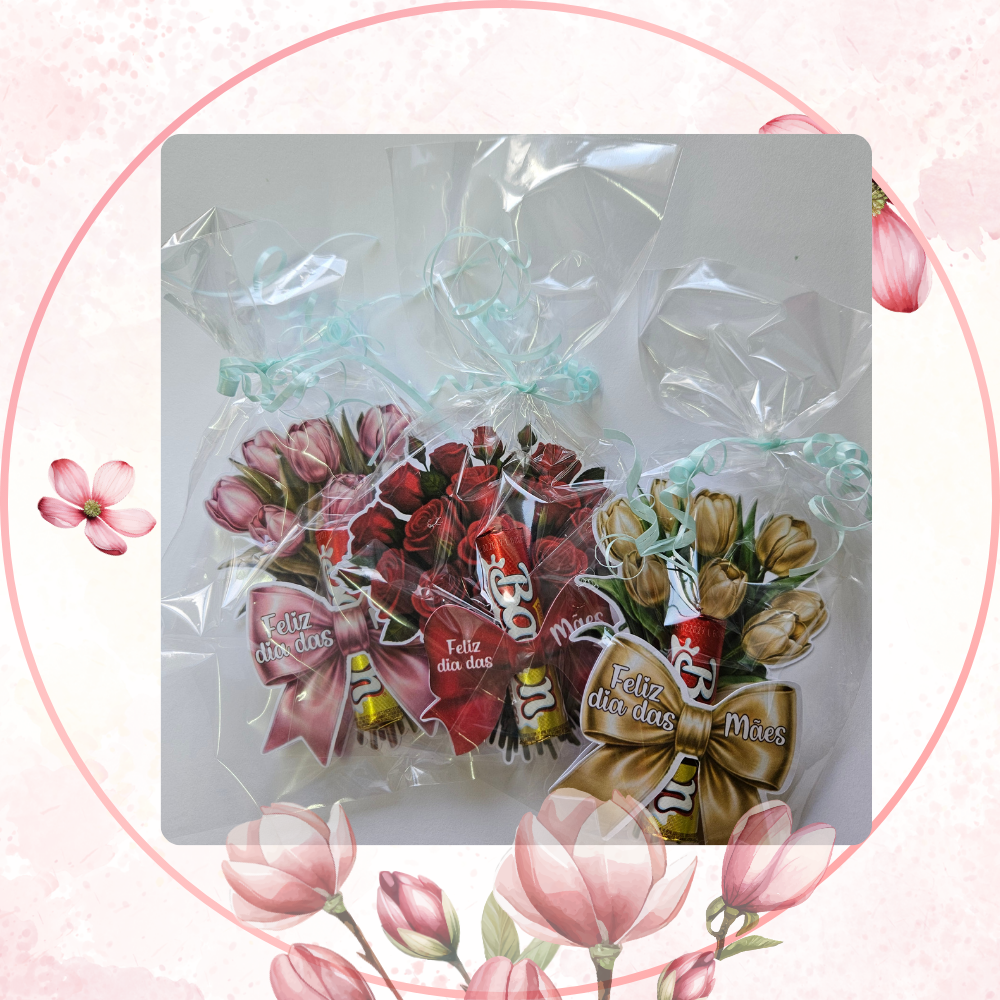
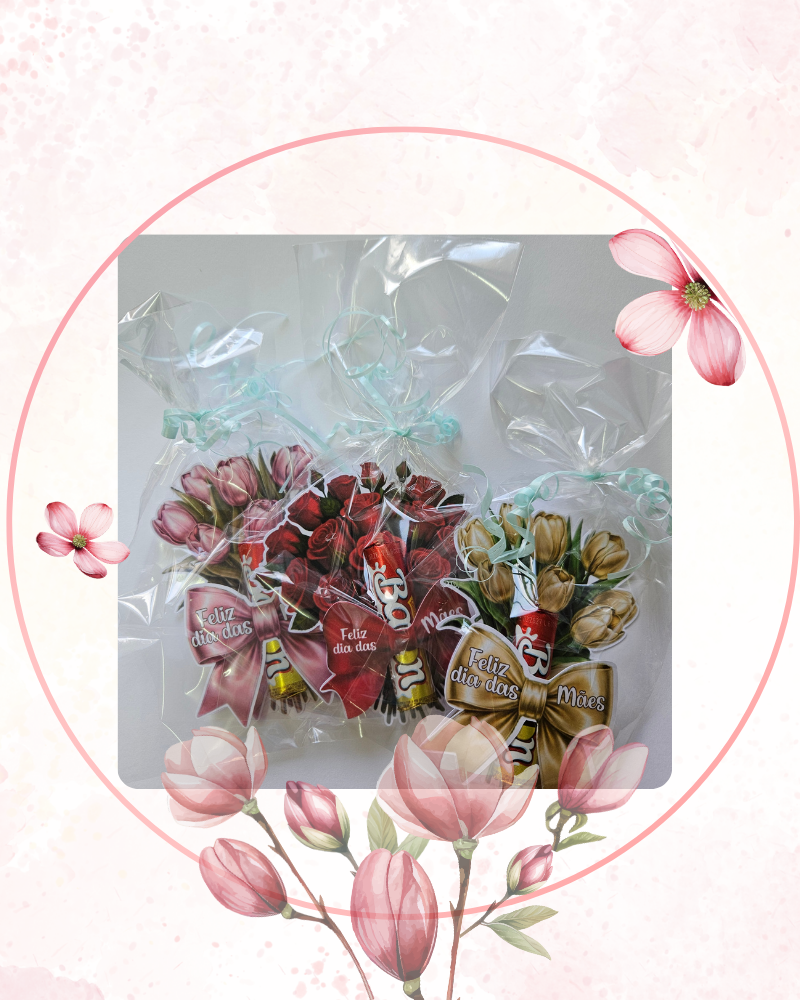
mae

diff --git a/src/components/SubcategoriaProductsPanel.jsx b/src/components/SubcategoriaProductsPanel.jsx
@@ -43,18 +43,20 @@ export function SubcategoriaProductsPanel({
         ✨ Produtos personalizados feitos artesanalmente com carinho
       </p>
 
-      {subcategoriaSelecionada.titulo === "Páscoa" ? (
+      {(subcategoriaSelecionada.titulo === "Páscoa" || subcategoriaSelecionada.titulo === "Dia das Mães") ? (
         <>
-          <h2
-            style={{
-              marginBottom: "20px",
-              color: "#5a3e36",
-              fontSize: "24px",
-              textAlign: "center"
-            }}
-          >
-            🍫 Doces e Lembrancinhas
-          </h2>
+          {subcategoriaSelecionada.titulo === "Páscoa" && (
+            <>
+              <h2
+                style={{
+                  marginBottom: "20px",
+                  color: "#5a3e36",
+                  fontSize: "24px",
+                  textAlign: "center"
+                }}
+              >
+                🍫 Doces e Lembrancinhas
+              </h2>
 
           <div style={estilos.grid}>
             {subcategoriaSelecionada.produtos
@@ -266,6 +268,166 @@ export function SubcategoriaProductsPanel({
                 </div>
               ))}
           </div>
+            </>
+          )}
+
+          {subcategoriaSelecionada.titulo === "Dia das Mães" && (
+            <>
+              <h2
+                style={{
+                  marginBottom: "20px",
+                  color: "#5a3e36",
+                  fontSize: "24px",
+                  textAlign: "center"
+                }}
+              >
+                🎁 Presentes Especiais
+              </h2>
+
+              <div style={estilos.grid}>
+                {subcategoriaSelecionada.produtos
+                  .filter((prod) => prod.tipo === "Presentes")
+                  .map((prod, i) => (
+                    <div
+                      key={i}
+                      style={estilos.card}
+                      onMouseEnter={(e) => {
+                        e.currentTarget.style.transform = "translateY(-8px)";
+                        e.currentTarget.style.boxShadow =
+                          "0 20px 40px rgba(0,0,0,0.1)";
+                      }}
+                      onMouseLeave={(e) => {
+                        e.currentTarget.style.transform = "translateY(0)";
+                        e.currentTarget.style.boxShadow =
+                          "0 10px 30px rgba(0,0,0,0.06)";
+                      }}
+                    >
+                      <div style={{ overflow: "hidden", borderRadius: "14px" }}>
+                        <img
+                          src={prod.imagem}
+                          alt={prod.nome}
+                          style={estilos.imagem}
+                          onMouseEnter={(e) => {
+                            e.currentTarget.style.transform = "scale(1.08)";
+                          }}
+                          onMouseLeave={(e) => {
+                            e.currentTarget.style.transform = "scale(1)";
+                          }}
+                        />
+                      </div>
+
+                      <p
+                        style={{
+                          fontWeight: "600",
+                          marginTop: "10px"
+                        }}
+                      >
+                        {prod.nome}
+                      </p>
+
+                      {prod.preco && (
+                        <p
+                          style={{
+                            fontWeight: "bold",
+                            color: "#c8a96a",
+                            fontSize: "16px",
+                            marginTop: "5px"
+                          }}
+                        >
+                          💰 {prod.preco}
+                        </p>
+                      )}
+
+                      <p
+                        style={{
+                          fontSize: "13px",
+                          color: "#999",
+                          marginTop: "4px"
+                        }}
+                      >
+                        Feito sob medida para você 💛
+                      </p>
+
+                      <a
+                        href={gerarLinkWhatsApp(prod.nome)}
+                        target="_blank"
+                        rel="noopener noreferrer"
+                      >
+                        <button style={estilos.botao}>Solicitar orçamento</button>
+                      </a>
+                    </div>
+                  ))}
+              </div>
+
+              <h2
+                style={{
+                  marginTop: "50px",
+                  marginBottom: "20px",
+                  color: "#5a3e36",
+                  fontSize: "24px",
+                  textAlign: "center"
+                }}
+              >
+                🎂 Topos de Bolo
+              </h2>
+
+              <div style={estilos.grid}>
+                {subcategoriaSelecionada.produtos
+                  .filter((prod) => prod.tipo === "topo")
+                  .map((prod, i) => (
+                    <div key={i} style={estilos.card}>
+                      <div style={{ overflow: "hidden", borderRadius: "14px" }}>
+                        <img
+                          src={prod.imagem}
+                          alt={prod.nome}
+                          style={estilos.imagem}
+                        />
+                      </div>
+
+                      <p
+                        style={{
+                          fontWeight: "600",
+                          marginTop: "10px"
+                        }}
+                      >
+                        {prod.nome}
+                      </p>
+
+                      {prod.preco && (
+                        <p
+                          style={{
+                            fontWeight: "bold",
+                            color: "#c8a96a",
+                            fontSize: "16px",
+                            marginTop: "5px"
+                          }}
+                        >
+                          💰 {prod.preco}
+                        </p>
+                      )}
+
+                      <p
+                        style={{
+                          fontSize: "13px",
+                          color: "#999",
+                          marginTop: "4px"
+                        }}
+                      >
+                        Feito sob medida para você 💛
+                      </p>
+
+                      <a
+                        href={gerarLinkWhatsApp(prod.nome)}
+                        target="_blank"
+                        rel="noopener noreferrer"
+                      >
+                        <button style={estilos.botao}>Solicitar orçamento</button>
+                      </a>
+                    </div>
+                  ))}
+              </div>
+            </>
+          )}
         </>
       ) : (
         <>

diff --git a/src/data/categorias.js b/src/data/categorias.js
@@ -196,20 +196,42 @@ export const categorias = [
           produtos: [
             {
               nome: "Caixa com Sabonete",
+              tipo: "Presentes",
               preco: "R$ 35,00",
-              imagem: "https://raw.githubusercontent.com/desingessatelie-hue/meu-site/main/imagens/festa/datas_com/Mae-01.png"
+              imagem: "https://raw.githubusercontent.com/desingessatelie-hue/meu-site/main/imagens/festa/datas_com/Mae/Mae-01.png"
             },
            {
               nome: "Caixa com Sabonete 2",
+              tipo: "Presentes",
               preco: "R$ 35,00",
-              imagem: "https://raw.githubusercontent.com/desingessatelie-hue/meu-site/main/imagens/festa/datas_com/Mae-02.png"
+              imagem: "https://raw.githubusercontent.com/desingessatelie-hue/meu-site/main/imagens/festa/datas_com/Mae/Mae-02.png"
             },
             {
               nome: "Buque com Baton",
+              tipo: "Presentes",
               preco: "A partir de R$ 6,00",
-              imagem: "https://raw.githubusercontent.com/desingessatelie-hue/meu-site/main/imagens/festa/datas_com/Mae-03.png"
+              imagem: "https://raw.githubusercontent.com/desingessatelie-hue/meu-site/main/imagens/festa/datas_com/Mae/Mae-03.png"
+            },
+
+            {
+              nome: "Topo de Bolo Dia das Mães (1)",
+              tipo: "topo",
+              preco: "A partir de R$ 15,00",
+              imagem: "/imagens/festa/datas_com/Mae/Mae-Tp01.png"
+            },
+            {
+              nome: "Topo de Bolo Dia das Mães (2)",
+              tipo: "topo",
+              preco: "A partir de R$ 15,00",
+              imagem: "/imagens/festa/datas_com/Mae/Mae-Tp02.png"
+            },
+            {
+              nome: "Topo de Bolo Dia das Mães (3)",
+              tipo: "topo",
+              preco: "A partir de R$ 15,00",
+              imagem: "/imagens/festa/datas_com/Mae/Mae-Tp03.png"
             }
-  
+
           ]
         },
       {